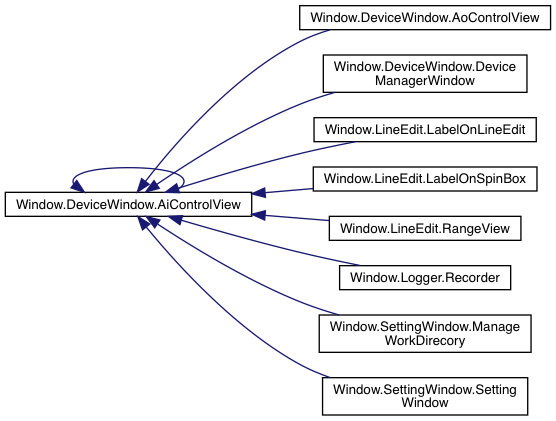
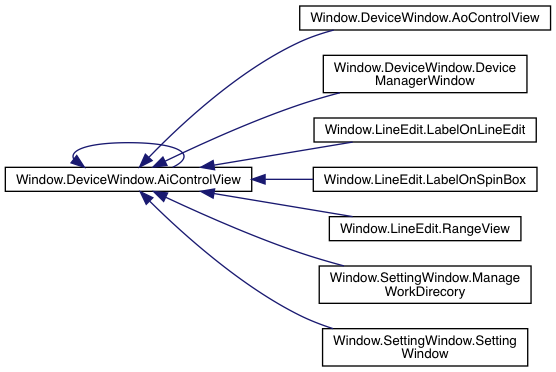
AD2を整理中

diff --git a/Doc/classes.html b/Doc/classes.html
@@ -62,27 +62,25 @@ $(function() {
 <div class="title">クラス索引</div>  </div>
 </div><!--header-->
 <div class="contents">
-<div class="qindex"><a class="qindex" href="#letter_a">a</a>&#160;|&#160;<a class="qindex" href="#letter_d">d</a>&#160;|&#160;<a class="qindex" href="#letter_e">e</a>&#160;|&#160;<a class="qindex" href="#letter_g">g</a>&#160;|&#160;<a class="qindex" href="#letter_l">l</a>&#160;|&#160;<a class="qindex" href="#letter_m">m</a>&#160;|&#160;<a class="qindex" href="#letter_r">r</a>&#160;|&#160;<a class="qindex" href="#letter_s">s</a></div>
+<div class="qindex"><a class="qindex" href="#letter_a">a</a>&#160;|&#160;<a class="qindex" href="#letter_d">d</a>&#160;|&#160;<a class="qindex" href="#letter_e">e</a>&#160;|&#160;<a class="qindex" href="#letter_l">l</a>&#160;|&#160;<a class="qindex" href="#letter_m">m</a>&#160;|&#160;<a class="qindex" href="#letter_r">r</a>&#160;|&#160;<a class="qindex" href="#letter_s">s</a></div>
 <table class="classindex">
 <tr><td rowspan="2" valign="bottom"><a name="letter_a"></a><table border="0" cellspacing="0" cellpadding="0"><tr><td><div class="ah">&#160;&#160;a&#160;&#160;</div></td></tr></table>
-</td><td rowspan="2" valign="bottom"><a name="letter_e"></a><table border="0" cellspacing="0" cellpadding="0"><tr><td><div class="ah">&#160;&#160;e&#160;&#160;</div></td></tr></table>
+</td><td rowspan="2" valign="bottom"><a name="letter_d"></a><table border="0" cellspacing="0" cellpadding="0"><tr><td><div class="ah">&#160;&#160;d&#160;&#160;</div></td></tr></table>
 </td><td rowspan="2" valign="bottom"><a name="letter_l"></a><table border="0" cellspacing="0" cellpadding="0"><tr><td><div class="ah">&#160;&#160;l&#160;&#160;</div></td></tr></table>
 </td><td rowspan="2" valign="bottom"><a name="letter_r"></a><table border="0" cellspacing="0" cellpadding="0"><tr><td><div class="ah">&#160;&#160;r&#160;&#160;</div></td></tr></table>
 </td><td></td></tr>
 <tr><td></td></tr>
-<tr><td valign="top"><a class="el" href="class_window_1_1_device_window_1_1_ai_control_view.html">AiControlView</a> (Window.DeviceWindow)&#160;&#160;&#160;</td><td valign="top"><a class="el" href="class_devices_1_1_waveforms_1_1_analog_discovery_1_1_echannel.html">Echannel</a> (<a class="el" href="namespace_devices_1_1_waveforms_1_1_analog_discovery.html">Devices.Waveforms.AnalogDiscovery</a>)&#160;&#160;&#160;</td><td valign="top"><a class="el" href="class_window_1_1_line_edit_1_1_label_on_line_edit.html">LabelOnLineEdit</a> (Window.LineEdit)&#160;&#160;&#160;</td><td valign="top"><a class="el" href="class_window_1_1_line_edit_1_1_range_view.html">RangeView</a> (Window.LineEdit)&#160;&#160;&#160;</td><td></td></tr>
-<tr><td valign="top"><a class="el" href="class_devices_1_1_waveforms_1_1_analog_discovery_1_1_analog_discovery2.html">AnalogDiscovery2</a> (<a class="el" href="namespace_devices_1_1_waveforms_1_1_analog_discovery.html">Devices.Waveforms.AnalogDiscovery</a>)&#160;&#160;&#160;</td><td rowspan="2" valign="bottom"><a name="letter_g"></a><table border="0" cellspacing="0" cellpadding="0"><tr><td><div class="ah">&#160;&#160;g&#160;&#160;</div></td></tr></table>
-</td><td valign="top"><a class="el" href="class_window_1_1_line_edit_1_1_label_on_spin_box.html">LabelOnSpinBox</a> (Window.LineEdit)&#160;&#160;&#160;</td><td valign="top"><a class="el" href="class_window_1_1_logger_1_1_recorder.html">Recorder</a> (Window.Logger)&#160;&#160;&#160;</td><td></td></tr>
-<tr><td valign="top"><a class="el" href="class_window_1_1_device_window_1_1_ao_control_view.html">AoControlView</a> (Window.DeviceWindow)&#160;&#160;&#160;</td><td rowspan="2" valign="bottom"><a name="letter_m"></a><table border="0" cellspacing="0" cellpadding="0"><tr><td><div class="ah">&#160;&#160;m&#160;&#160;</div></td></tr></table>
-</td><td rowspan="2" valign="bottom"><a name="letter_s"></a><table border="0" cellspacing="0" cellpadding="0"><tr><td><div class="ah">&#160;&#160;s&#160;&#160;</div></td></tr></table>
+<tr><td valign="top"><a class="el" href="class_window_1_1_device_window_1_1_ai_control_view.html">AiControlView</a> (Window.DeviceWindow)&#160;&#160;&#160;</td><td valign="top"><a class="el" href="class_window_1_1_device_window_1_1_device_manager_window.html">DeviceManagerWindow</a> (Window.DeviceWindow)&#160;&#160;&#160;</td><td valign="top"><a class="el" href="class_window_1_1_line_edit_1_1_label_on_line_edit.html">LabelOnLineEdit</a> (Window.LineEdit)&#160;&#160;&#160;</td><td valign="top"><a class="el" href="class_window_1_1_line_edit_1_1_range_view.html">RangeView</a> (Window.LineEdit)&#160;&#160;&#160;</td><td></td></tr>
+<tr><td valign="top"><a class="el" href="class_devices_1_1_waveforms_1_1_analog_discovery_1_1_analog_discovery2.html">AnalogDiscovery2</a> (<a class="el" href="namespace_devices_1_1_waveforms_1_1_analog_discovery.html">Devices.Waveforms.AnalogDiscovery</a>)&#160;&#160;&#160;</td><td rowspan="2" valign="bottom"><a name="letter_e"></a><table border="0" cellspacing="0" cellpadding="0"><tr><td><div class="ah">&#160;&#160;e&#160;&#160;</div></td></tr></table>
+</td><td valign="top"><a class="el" href="class_window_1_1_line_edit_1_1_label_on_spin_box.html">LabelOnSpinBox</a> (Window.LineEdit)&#160;&#160;&#160;</td><td rowspan="2" valign="bottom"><a name="letter_s"></a><table border="0" cellspacing="0" cellpadding="0"><tr><td><div class="ah">&#160;&#160;s&#160;&#160;</div></td></tr></table>
 </td><td></td></tr>
-<tr><td rowspan="2" valign="bottom"><a name="letter_d"></a><table border="0" cellspacing="0" cellpadding="0"><tr><td><div class="ah">&#160;&#160;d&#160;&#160;</div></td></tr></table>
-</td><td valign="top"><a class="el" href="class_window_1_1_show_graph_1_1_graph.html">Graph</a> (Window.ShowGraph)&#160;&#160;&#160;</td><td></td></tr>
-<tr><td></td><td valign="top"><a class="el" href="class_window_1_1_setting_window_1_1_manage_work_direcory.html">ManageWorkDirecory</a> (Window.SettingWindow)&#160;&#160;&#160;</td><td valign="top"><a class="el" href="class_window_1_1_setting_window_1_1_setting_window.html">SettingWindow</a> (Window.SettingWindow)&#160;&#160;&#160;</td><td></td></tr>
-<tr><td valign="top"><a class="el" href="class_window_1_1_device_window_1_1_device_manager_window.html">DeviceManagerWindow</a> (Window.DeviceWindow)&#160;&#160;&#160;</td><td></td><td></td><td></td><td></td></tr>
+<tr><td valign="top"><a class="el" href="class_window_1_1_device_window_1_1_ao_control_view.html">AoControlView</a> (Window.DeviceWindow)&#160;&#160;&#160;</td><td rowspan="2" valign="bottom"><a name="letter_m"></a><table border="0" cellspacing="0" cellpadding="0"><tr><td><div class="ah">&#160;&#160;m&#160;&#160;</div></td></tr></table>
+</td><td></td></tr>
+<tr><td></td><td valign="top"><a class="el" href="class_devices_1_1_waveforms_1_1_analog_discovery_1_1_echannel.html">Echannel</a> (<a class="el" href="namespace_devices_1_1_waveforms_1_1_analog_discovery.html">Devices.Waveforms.AnalogDiscovery</a>)&#160;&#160;&#160;</td><td valign="top"><a class="el" href="class_window_1_1_setting_window_1_1_setting_window.html">SettingWindow</a> (Window.SettingWindow)&#160;&#160;&#160;</td><td></td></tr>
+<tr><td></td><td></td><td valign="top"><a class="el" href="class_window_1_1_setting_window_1_1_manage_work_direcory.html">ManageWorkDirecory</a> (Window.SettingWindow)&#160;&#160;&#160;</td><td></td><td></td></tr>
 <tr><td></td><td></td><td></td><td></td><td></td></tr>
 </table>
-<div class="qindex"><a class="qindex" href="#letter_a">a</a>&#160;|&#160;<a class="qindex" href="#letter_d">d</a>&#160;|&#160;<a class="qindex" href="#letter_e">e</a>&#160;|&#160;<a class="qindex" href="#letter_g">g</a>&#160;|&#160;<a class="qindex" href="#letter_l">l</a>&#160;|&#160;<a class="qindex" href="#letter_m">m</a>&#160;|&#160;<a class="qindex" href="#letter_r">r</a>&#160;|&#160;<a class="qindex" href="#letter_s">s</a></div>
+<div class="qindex"><a class="qindex" href="#letter_a">a</a>&#160;|&#160;<a class="qindex" href="#letter_d">d</a>&#160;|&#160;<a class="qindex" href="#letter_e">e</a>&#160;|&#160;<a class="qindex" href="#letter_l">l</a>&#160;|&#160;<a class="qindex" href="#letter_m">m</a>&#160;|&#160;<a class="qindex" href="#letter_r">r</a>&#160;|&#160;<a class="qindex" href="#letter_s">s</a></div>
 </div><!-- contents -->
 <!-- start footer part -->
 <hr class="footer"/><address class="footer"><small>

diff --git a/Doc/hierarchy.html b/Doc/hierarchy.html
@@ -67,19 +67,17 @@ $(function() {
 クラス階層一覧です。大雑把に文字符号順で並べられています。</div><div class="directory">
 <div class="levels">[表示階層 <span onclick="javascript:toggleLevel(1);">1</span><span onclick="javascript:toggleLevel(2);">2</span>]</div><table class="directory">
 <tr id="row_0_" class="even"><td class="entry"><span style="width:16px;display:inline-block;">&#160;</span><span class="icona"><span class="icon">C</span></span><a class="el" href="class_devices_1_1_waveforms_1_1_analog_discovery_1_1_analog_discovery2.html" target="_self">Devices.Waveforms.AnalogDiscovery.AnalogDiscovery2</a></td><td class="desc"></td></tr>
-<tr id="row_1_"><td class="entry"><span style="width:16px;display:inline-block;">&#160;</span><span class="icona"><span class="icon">C</span></span><a class="el" href="class_window_1_1_show_graph_1_1_graph.html" target="_self">Window.ShowGraph.Graph</a></td><td class="desc"></td></tr>
-<tr id="row_2_" class="even"><td class="entry"><span style="width:0px;display:inline-block;">&#160;</span><span id="arr_2_" class="arrow" onclick="toggleFolder('2_')">&#9660;</span><span class="icona"><span class="icon">C</span></span><b>QWidget</b></td><td class="desc"></td></tr>
-<tr id="row_2_0_"><td class="entry"><span style="width:32px;display:inline-block;">&#160;</span><span class="icona"><span class="icon">C</span></span><a class="el" href="class_window_1_1_device_window_1_1_ai_control_view.html" target="_self">Window.DeviceWindow.AiControlView</a></td><td class="desc"></td></tr>
-<tr id="row_2_1_" class="even"><td class="entry"><span style="width:32px;display:inline-block;">&#160;</span><span class="icona"><span class="icon">C</span></span><a class="el" href="class_window_1_1_device_window_1_1_ao_control_view.html" target="_self">Window.DeviceWindow.AoControlView</a></td><td class="desc"></td></tr>
-<tr id="row_2_2_"><td class="entry"><span style="width:32px;display:inline-block;">&#160;</span><span class="icona"><span class="icon">C</span></span><a class="el" href="class_window_1_1_device_window_1_1_device_manager_window.html" target="_self">Window.DeviceWindow.DeviceManagerWindow</a></td><td class="desc"></td></tr>
-<tr id="row_2_3_" class="even"><td class="entry"><span style="width:32px;display:inline-block;">&#160;</span><span class="icona"><span class="icon">C</span></span><a class="el" href="class_window_1_1_line_edit_1_1_label_on_line_edit.html" target="_self">Window.LineEdit.LabelOnLineEdit</a></td><td class="desc"></td></tr>
-<tr id="row_2_4_"><td class="entry"><span style="width:32px;display:inline-block;">&#160;</span><span class="icona"><span class="icon">C</span></span><a class="el" href="class_window_1_1_line_edit_1_1_label_on_spin_box.html" target="_self">Window.LineEdit.LabelOnSpinBox</a></td><td class="desc"></td></tr>
-<tr id="row_2_5_" class="even"><td class="entry"><span style="width:32px;display:inline-block;">&#160;</span><span class="icona"><span class="icon">C</span></span><a class="el" href="class_window_1_1_line_edit_1_1_range_view.html" target="_self">Window.LineEdit.RangeView</a></td><td class="desc"></td></tr>
-<tr id="row_2_6_"><td class="entry"><span style="width:32px;display:inline-block;">&#160;</span><span class="icona"><span class="icon">C</span></span><a class="el" href="class_window_1_1_logger_1_1_recorder.html" target="_self">Window.Logger.Recorder</a></td><td class="desc"></td></tr>
-<tr id="row_2_7_" class="even"><td class="entry"><span style="width:32px;display:inline-block;">&#160;</span><span class="icona"><span class="icon">C</span></span><a class="el" href="class_window_1_1_setting_window_1_1_manage_work_direcory.html" target="_self">Window.SettingWindow.ManageWorkDirecory</a></td><td class="desc"></td></tr>
-<tr id="row_2_8_"><td class="entry"><span style="width:32px;display:inline-block;">&#160;</span><span class="icona"><span class="icon">C</span></span><a class="el" href="class_window_1_1_setting_window_1_1_setting_window.html" target="_self">Window.SettingWindow.SettingWindow</a></td><td class="desc"></td></tr>
-<tr id="row_3_" class="even"><td class="entry"><span style="width:0px;display:inline-block;">&#160;</span><span id="arr_3_" class="arrow" onclick="toggleFolder('3_')">&#9660;</span><span class="icona"><span class="icon">C</span></span><b>Enum</b></td><td class="desc"></td></tr>
-<tr id="row_3_0_"><td class="entry"><span style="width:32px;display:inline-block;">&#160;</span><span class="icona"><span class="icon">C</span></span><a class="el" href="class_devices_1_1_waveforms_1_1_analog_discovery_1_1_echannel.html" target="_self">Devices.Waveforms.AnalogDiscovery.Echannel</a></td><td class="desc"></td></tr>
+<tr id="row_1_"><td class="entry"><span style="width:0px;display:inline-block;">&#160;</span><span id="arr_1_" class="arrow" onclick="toggleFolder('1_')">&#9660;</span><span class="icona"><span class="icon">C</span></span><b>QWidget</b></td><td class="desc"></td></tr>
+<tr id="row_1_0_" class="even"><td class="entry"><span style="width:32px;display:inline-block;">&#160;</span><span class="icona"><span class="icon">C</span></span><a class="el" href="class_window_1_1_device_window_1_1_ai_control_view.html" target="_self">Window.DeviceWindow.AiControlView</a></td><td class="desc"></td></tr>
+<tr id="row_1_1_"><td class="entry"><span style="width:32px;display:inline-block;">&#160;</span><span class="icona"><span class="icon">C</span></span><a class="el" href="class_window_1_1_device_window_1_1_ao_control_view.html" target="_self">Window.DeviceWindow.AoControlView</a></td><td class="desc"></td></tr>
+<tr id="row_1_2_" class="even"><td class="entry"><span style="width:32px;display:inline-block;">&#160;</span><span class="icona"><span class="icon">C</span></span><a class="el" href="class_window_1_1_device_window_1_1_device_manager_window.html" target="_self">Window.DeviceWindow.DeviceManagerWindow</a></td><td class="desc"></td></tr>
+<tr id="row_1_3_"><td class="entry"><span style="width:32px;display:inline-block;">&#160;</span><span class="icona"><span class="icon">C</span></span><a class="el" href="class_window_1_1_line_edit_1_1_label_on_line_edit.html" target="_self">Window.LineEdit.LabelOnLineEdit</a></td><td class="desc"></td></tr>
+<tr id="row_1_4_" class="even"><td class="entry"><span style="width:32px;display:inline-block;">&#160;</span><span class="icona"><span class="icon">C</span></span><a class="el" href="class_window_1_1_line_edit_1_1_label_on_spin_box.html" target="_self">Window.LineEdit.LabelOnSpinBox</a></td><td class="desc"></td></tr>
+<tr id="row_1_5_"><td class="entry"><span style="width:32px;display:inline-block;">&#160;</span><span class="icona"><span class="icon">C</span></span><a class="el" href="class_window_1_1_line_edit_1_1_range_view.html" target="_self">Window.LineEdit.RangeView</a></td><td class="desc"></td></tr>
+<tr id="row_1_6_" class="even"><td class="entry"><span style="width:32px;display:inline-block;">&#160;</span><span class="icona"><span class="icon">C</span></span><a class="el" href="class_window_1_1_setting_window_1_1_manage_work_direcory.html" target="_self">Window.SettingWindow.ManageWorkDirecory</a></td><td class="desc"></td></tr>
+<tr id="row_1_7_"><td class="entry"><span style="width:32px;display:inline-block;">&#160;</span><span class="icona"><span class="icon">C</span></span><a class="el" href="class_window_1_1_setting_window_1_1_setting_window.html" target="_self">Window.SettingWindow.SettingWindow</a></td><td class="desc"></td></tr>
+<tr id="row_2_" class="even"><td class="entry"><span style="width:0px;display:inline-block;">&#160;</span><span id="arr_2_" class="arrow" onclick="toggleFolder('2_')">&#9660;</span><span class="icona"><span class="icon">C</span></span><b>Enum</b></td><td class="desc"></td></tr>
+<tr id="row_2_0_"><td class="entry"><span style="width:32px;display:inline-block;">&#160;</span><span class="icona"><span class="icon">C</span></span><a class="el" href="class_devices_1_1_waveforms_1_1_analog_discovery_1_1_echannel.html" target="_self">Devices.Waveforms.AnalogDiscovery.Echannel</a></td><td class="desc"></td></tr>
 </table>
 </div><!-- directory -->
 </div><!-- contents -->

diff --git a/Doc/annotated.html b/Doc/annotated.html
@@ -78,13 +78,9 @@ $(function() {
 <tr id="row_1_1_0_"><td class="entry"><span style="width:48px;display:inline-block;">&#160;</span><span class="icona"><span class="icon">C</span></span><a class="el" href="class_window_1_1_line_edit_1_1_label_on_line_edit.html" target="_self">LabelOnLineEdit</a></td><td class="desc"></td></tr>
 <tr id="row_1_1_1_" class="even"><td class="entry"><span style="width:48px;display:inline-block;">&#160;</span><span class="icona"><span class="icon">C</span></span><a class="el" href="class_window_1_1_line_edit_1_1_label_on_spin_box.html" target="_self">LabelOnSpinBox</a></td><td class="desc"></td></tr>
 <tr id="row_1_1_2_"><td class="entry"><span style="width:48px;display:inline-block;">&#160;</span><span class="icona"><span class="icon">C</span></span><a class="el" href="class_window_1_1_line_edit_1_1_range_view.html" target="_self">RangeView</a></td><td class="desc"></td></tr>
-<tr id="row_1_2_" class="even"><td class="entry"><span style="width:16px;display:inline-block;">&#160;</span><span id="arr_1_2_" class="arrow" onclick="toggleFolder('1_2_')">&#9660;</span><span class="icona"><span class="icon">N</span></span><b>Logger</b></td><td class="desc"></td></tr>
-<tr id="row_1_2_0_"><td class="entry"><span style="width:48px;display:inline-block;">&#160;</span><span class="icona"><span class="icon">C</span></span><a class="el" href="class_window_1_1_logger_1_1_recorder.html" target="_self">Recorder</a></td><td class="desc"></td></tr>
-<tr id="row_1_3_" class="even"><td class="entry"><span style="width:16px;display:inline-block;">&#160;</span><span id="arr_1_3_" class="arrow" onclick="toggleFolder('1_3_')">&#9660;</span><span class="icona"><span class="icon">N</span></span><b>SettingWindow</b></td><td class="desc"></td></tr>
-<tr id="row_1_3_0_"><td class="entry"><span style="width:48px;display:inline-block;">&#160;</span><span class="icona"><span class="icon">C</span></span><a class="el" href="class_window_1_1_setting_window_1_1_manage_work_direcory.html" target="_self">ManageWorkDirecory</a></td><td class="desc"></td></tr>
-<tr id="row_1_3_1_" class="even"><td class="entry"><span style="width:48px;display:inline-block;">&#160;</span><span class="icona"><span class="icon">C</span></span><a class="el" href="class_window_1_1_setting_window_1_1_setting_window.html" target="_self">SettingWindow</a></td><td class="desc"></td></tr>
-<tr id="row_1_4_"><td class="entry"><span style="width:16px;display:inline-block;">&#160;</span><span id="arr_1_4_" class="arrow" onclick="toggleFolder('1_4_')">&#9660;</span><span class="icona"><span class="icon">N</span></span><b>ShowGraph</b></td><td class="desc"></td></tr>
-<tr id="row_1_4_0_" class="even"><td class="entry"><span style="width:48px;display:inline-block;">&#160;</span><span class="icona"><span class="icon">C</span></span><a class="el" href="class_window_1_1_show_graph_1_1_graph.html" target="_self">Graph</a></td><td class="desc"></td></tr>
+<tr id="row_1_2_" class="even"><td class="entry"><span style="width:16px;display:inline-block;">&#160;</span><span id="arr_1_2_" class="arrow" onclick="toggleFolder('1_2_')">&#9660;</span><span class="icona"><span class="icon">N</span></span><b>SettingWindow</b></td><td class="desc"></td></tr>
+<tr id="row_1_2_0_"><td class="entry"><span style="width:48px;display:inline-block;">&#160;</span><span class="icona"><span class="icon">C</span></span><a class="el" href="class_window_1_1_setting_window_1_1_manage_work_direcory.html" target="_self">ManageWorkDirecory</a></td><td class="desc"></td></tr>
+<tr id="row_1_2_1_" class="even"><td class="entry"><span style="width:48px;display:inline-block;">&#160;</span><span class="icona"><span class="icon">C</span></span><a class="el" href="class_window_1_1_setting_window_1_1_setting_window.html" target="_self">SettingWindow</a></td><td class="desc"></td></tr>
 </table>
 </div><!-- directory -->
 </div><!-- contents -->

diff --git a/Doc/namespace_devices_1_1_waveforms_1_1_analog_discovery.html b/Doc/namespace_devices_1_1_waveforms_1_1_analog_discovery.html
@@ -80,8 +80,7 @@ $(function() {
 </table><table class="memberdecls">
 <tr class="heading"><td colspan="2"><h2 class="groupheader"><a name="func-members"></a>
 関数</h2></td></tr>
-<tr class="memitem:a61a97b272b39fe88c3893d4d808bf54d"><td class="memItemLeft" align="right" valign="top"><a id="a61a97b272b39fe88c3893d4d808bf54d"></a>
-def&#160;</td><td class="memItemRight" valign="bottom"><b>get_connection_count_analog_discovery2</b> ()</td></tr>
+<tr class="memitem:a61a97b272b39fe88c3893d4d808bf54d"><td class="memItemLeft" align="right" valign="top">def&#160;</td><td class="memItemRight" valign="bottom"><a class="el" href="namespace_devices_1_1_waveforms_1_1_analog_discovery.html#a61a97b272b39fe88c3893d4d808bf54d">get_connection_count_analog_discovery2</a> ()</td></tr>
 <tr class="separator:a61a97b272b39fe88c3893d4d808bf54d"><td class="memSeparator" colspan="2">&#160;</td></tr>
 <tr class="memitem:af91078618241773d7ce2d4b7001e4be5"><td class="memItemLeft" align="right" valign="top"><a id="af91078618241773d7ce2d4b7001e4be5"></a>
 def&#160;</td><td class="memItemRight" valign="bottom"><b>get_serial_analog_discovery2</b></td></tr>
@@ -96,7 +95,7 @@ def&#160;</td><td class="memItemRight" valign="bottom"><b>get_index_analog_disco
 &#160;</td><td class="memItemRight" valign="bottom"><b>dwf</b> = cdll.dwf</td></tr>
 <tr class="separator:a5981030cf50d2f07103a9577a3c98a3c"><td class="memSeparator" colspan="2">&#160;</td></tr>
 <tr class="memitem:ab072a4780efd4fcdfa4f1da410d5373d"><td class="memItemLeft" align="right" valign="top"><a id="ab072a4780efd4fcdfa4f1da410d5373d"></a>
-def&#160;</td><td class="memItemRight" valign="bottom"><b>devices</b> = get_connection_count_analog_discovery2()</td></tr>
+def&#160;</td><td class="memItemRight" valign="bottom"><b>devices</b> = <a class="el" href="namespace_devices_1_1_waveforms_1_1_analog_discovery.html#a61a97b272b39fe88c3893d4d808bf54d">get_connection_count_analog_discovery2</a>()</td></tr>
 <tr class="separator:ab072a4780efd4fcdfa4f1da410d5373d"><td class="memSeparator" colspan="2">&#160;</td></tr>
 <tr class="memitem:ac8931f611cdfaedd8f4a62901015caec"><td class="memItemLeft" align="right" valign="top"><a id="ac8931f611cdfaedd8f4a62901015caec"></a>
 &#160;</td><td class="memItemRight" valign="bottom"><b>device</b> = <a class="el" href="class_devices_1_1_waveforms_1_1_analog_discovery_1_1_analog_discovery2.html">AnalogDiscovery2</a>()</td></tr>
@@ -133,7 +132,26 @@ def&#160;</td><td class="memItemRight" valign="bottom"><b>devices</b> = get_conn
 <div class="textblock"><pre class="fragment">@file AnalogDiscovery2
 @brief Digilent社のAD2を簡単に扱うためのラッパーファイルです．
 @author Nobuhiro Funato
-</pre> </div></div><!-- contents -->
+</pre> </div><h2 class="groupheader">関数詳解</h2>
+<a id="a61a97b272b39fe88c3893d4d808bf54d"></a>
+<h2 class="memtitle"><span class="permalink"><a href="#a61a97b272b39fe88c3893d4d808bf54d">&#9670;&nbsp;</a></span>get_connection_count_analog_discovery2()</h2>
+
+<div class="memitem">
+<div class="memproto">
+      <table class="memname">
+        <tr>
+          <td class="memname">def Devices.Waveforms.AnalogDiscovery.get_connection_count_analog_discovery2 </td>
+          <td>(</td>
+          <td class="paramname"></td><td>)</td>
+          <td></td>
+        </tr>
+      </table>
+</div><div class="memdoc">
+<pre class="fragment">@return: 現在，接続されているAD2の数を整数値で返す
+</pre> 
+</div>
+</div>
+</div><!-- contents -->
 <!-- start footer part -->
 <hr class="footer"/><address class="footer"><small>
 構築: &#160;<a href="http://www.doxygen.org/index.html">

diff --git a/Doc/namespacemembers.html b/Doc/namespacemembers.html
@@ -5,7 +5,7 @@
 <meta http-equiv="X-UA-Compatible" content="IE=9"/>
 <meta name="generator" content="Doxygen 1.8.13"/>
 <meta name="viewport" content="width=device-width, initial-scale=1"/>
-<title>Pybration: Window.SettingWindow.ManageWorkDirecory クラス</title>
+<title>Pybration: 名前空間メンバ</title>
 <link href="tabs.css" rel="stylesheet" type="text/css"/>
 <script type="text/javascript" src="jquery.js"></script>
 <script type="text/javascript" src="dynsections.js"></script>
@@ -42,6 +42,7 @@ $(function() {
 });
 </script>
 <div id="main-nav"></div>
+</div><!-- top -->
 <!-- window showing the filter options -->
 <div id="MSearchSelectWindow"
      onmouseover="return searchBox.OnSearchSelectShow()"
@@ -56,38 +57,11 @@ $(function() {
 </iframe>
 </div>
 
-<div id="nav-path" class="navpath">
-  <ul>
-<li class="navelem"><b>Window</b></li><li class="navelem"><b>SettingWindow</b></li><li class="navelem"><a class="el" href="class_window_1_1_setting_window_1_1_manage_work_direcory.html">ManageWorkDirecory</a></li>  </ul>
-</div>
-</div><!-- top -->
-<div class="header">
-  <div class="summary">
-<a href="#pub-methods">公開メンバ関数</a> &#124;
-<a href="class_window_1_1_setting_window_1_1_manage_work_direcory-members.html">全メンバ一覧</a>  </div>
-  <div class="headertitle">
-<div class="title">Window.SettingWindow.ManageWorkDirecory クラス</div>  </div>
-</div><!--header-->
 <div class="contents">
-<div class="dynheader">
-Window.SettingWindow.ManageWorkDirecory の継承関係図</div>
-<div class="dyncontent">
-<div class="center"><img src="class_window_1_1_setting_window_1_1_manage_work_direcory__inherit__graph.png" border="0" usemap="#_window_8_setting_window_8_manage_work_direcory_inherit__map" alt="Inheritance graph"/></div>
-<center><span class="legend">[<a href="graph_legend.html">凡例</a>]</span></center></div>
-<div class="dynheader">
-Window.SettingWindow.ManageWorkDirecory 連携図</div>
-<div class="dyncontent">
-<div class="center"><img src="class_window_1_1_setting_window_1_1_manage_work_direcory__coll__graph.png" border="0" usemap="#_window_8_setting_window_8_manage_work_direcory_coll__map" alt="Collaboration graph"/></div>
-<center><span class="legend">[<a href="graph_legend.html">凡例</a>]</span></center></div>
-<table class="memberdecls">
-<tr class="heading"><td colspan="2"><h2 class="groupheader"><a name="pub-methods"></a>
-公開メンバ関数</h2></td></tr>
-<tr class="memitem:a347c72753f2138f08b4980be1445cc7a"><td class="memItemLeft" align="right" valign="top"><a id="a347c72753f2138f08b4980be1445cc7a"></a>
-def&#160;</td><td class="memItemRight" valign="bottom"><b>__init__</b> (self)</td></tr>
-<tr class="separator:a347c72753f2138f08b4980be1445cc7a"><td class="memSeparator" colspan="2">&#160;</td></tr>
-</table>
-<hr/>このクラス詳解は次のファイルから抽出されました:<ul>
-<li>Window/SettingWindow.py</li>
+<div class="textblock">これは名前空間の一覧です。それぞれが属している名前空間へリンクしています。</div><ul>
+<li>get_connection_count_analog_discovery2()
+: <a class="el" href="namespace_devices_1_1_waveforms_1_1_analog_discovery.html#a61a97b272b39fe88c3893d4d808bf54d">Devices.Waveforms.AnalogDiscovery</a>
+</li>
 </ul>
 </div><!-- contents -->
 <!-- start footer part -->

diff --git a/Doc/namespacemembers_func.html b/Doc/namespacemembers_func.html
@@ -5,7 +5,7 @@
 <meta http-equiv="X-UA-Compatible" content="IE=9"/>
 <meta name="generator" content="Doxygen 1.8.13"/>
 <meta name="viewport" content="width=device-width, initial-scale=1"/>
-<title>Pybration: Window.SettingWindow.ManageWorkDirecory クラス</title>
+<title>Pybration: 名前空間メンバ</title>
 <link href="tabs.css" rel="stylesheet" type="text/css"/>
 <script type="text/javascript" src="jquery.js"></script>
 <script type="text/javascript" src="dynsections.js"></script>
@@ -42,6 +42,7 @@ $(function() {
 });
 </script>
 <div id="main-nav"></div>
+</div><!-- top -->
 <!-- window showing the filter options -->
 <div id="MSearchSelectWindow"
      onmouseover="return searchBox.OnSearchSelectShow()"
@@ -56,38 +57,11 @@ $(function() {
 </iframe>
 </div>
 
-<div id="nav-path" class="navpath">
-  <ul>
-<li class="navelem"><b>Window</b></li><li class="navelem"><b>SettingWindow</b></li><li class="navelem"><a class="el" href="class_window_1_1_setting_window_1_1_manage_work_direcory.html">ManageWorkDirecory</a></li>  </ul>
-</div>
-</div><!-- top -->
-<div class="header">
-  <div class="summary">
-<a href="#pub-methods">公開メンバ関数</a> &#124;
-<a href="class_window_1_1_setting_window_1_1_manage_work_direcory-members.html">全メンバ一覧</a>  </div>
-  <div class="headertitle">
-<div class="title">Window.SettingWindow.ManageWorkDirecory クラス</div>  </div>
-</div><!--header-->
 <div class="contents">
-<div class="dynheader">
-Window.SettingWindow.ManageWorkDirecory の継承関係図</div>
-<div class="dyncontent">
-<div class="center"><img src="class_window_1_1_setting_window_1_1_manage_work_direcory__inherit__graph.png" border="0" usemap="#_window_8_setting_window_8_manage_work_direcory_inherit__map" alt="Inheritance graph"/></div>
-<center><span class="legend">[<a href="graph_legend.html">凡例</a>]</span></center></div>
-<div class="dynheader">
-Window.SettingWindow.ManageWorkDirecory 連携図</div>
-<div class="dyncontent">
-<div class="center"><img src="class_window_1_1_setting_window_1_1_manage_work_direcory__coll__graph.png" border="0" usemap="#_window_8_setting_window_8_manage_work_direcory_coll__map" alt="Collaboration graph"/></div>
-<center><span class="legend">[<a href="graph_legend.html">凡例</a>]</span></center></div>
-<table class="memberdecls">
-<tr class="heading"><td colspan="2"><h2 class="groupheader"><a name="pub-methods"></a>
-公開メンバ関数</h2></td></tr>
-<tr class="memitem:a347c72753f2138f08b4980be1445cc7a"><td class="memItemLeft" align="right" valign="top"><a id="a347c72753f2138f08b4980be1445cc7a"></a>
-def&#160;</td><td class="memItemRight" valign="bottom"><b>__init__</b> (self)</td></tr>
-<tr class="separator:a347c72753f2138f08b4980be1445cc7a"><td class="memSeparator" colspan="2">&#160;</td></tr>
-</table>
-<hr/>このクラス詳解は次のファイルから抽出されました:<ul>
-<li>Window/SettingWindow.py</li>
+&#160;<ul>
+<li>get_connection_count_analog_discovery2()
+: <a class="el" href="namespace_devices_1_1_waveforms_1_1_analog_discovery.html#a61a97b272b39fe88c3893d4d808bf54d">Devices.Waveforms.AnalogDiscovery</a>
+</li>
 </ul>
 </div><!-- contents -->
 <!-- start footer part -->

diff --git a/Doc/inherits.html b/Doc/inherits.html
@@ -77,20 +77,14 @@ $(function() {
 </td></tr>
 <tr><td><img src="inherit_graph_2.png" border="0" alt="" usemap="#_window_8_device_window_8_ai_control_view"/>
 <map name="_window_8_device_window_8_ai_control_view" id="_window_8_device_window_8_ai_control_view">
-<area shape="rect" id="node1" href="class_window_1_1_device_window_1_1_ai_control_view.html" title="Window.DeviceWindow.AiControlView" alt="" coords="5,192,252,217"/>
+<area shape="rect" id="node1" href="class_window_1_1_device_window_1_1_ai_control_view.html" title="Window.DeviceWindow.AiControlView" alt="" coords="5,167,252,192"/>
 <area shape="rect" id="node2" href="class_window_1_1_device_window_1_1_ao_control_view.html" title="Window.DeviceWindow.AoControlView" alt="" coords="300,5,551,31"/>
 <area shape="rect" id="node3" href="class_window_1_1_device_window_1_1_device_manager_window.html" title="Window.DeviceWindow.Device\lManagerWindow" alt="" coords="323,55,527,93"/>
 <area shape="rect" id="node4" href="class_window_1_1_line_edit_1_1_label_on_line_edit.html" title="Window.LineEdit.LabelOnLineEdit" alt="" coords="314,117,536,143"/>
 <area shape="rect" id="node5" href="class_window_1_1_line_edit_1_1_label_on_spin_box.html" title="Window.LineEdit.LabelOnSpinBox" alt="" coords="313,167,537,192"/>
 <area shape="rect" id="node6" href="class_window_1_1_line_edit_1_1_range_view.html" title="Window.LineEdit.RangeView" alt="" coords="329,216,521,241"/>
-<area shape="rect" id="node7" href="class_window_1_1_logger_1_1_recorder.html" title="Window.Logger.Recorder" alt="" coords="340,265,511,291"/>
-<area shape="rect" id="node8" href="class_window_1_1_setting_window_1_1_manage_work_direcory.html" title="Window.SettingWindow.Manage\lWorkDirecory" alt="" coords="319,315,531,353"/>
-<area shape="rect" id="node9" href="class_window_1_1_setting_window_1_1_setting_window.html" title="Window.SettingWindow.Setting\lWindow" alt="" coords="323,377,528,416"/>
-</map>
-</td></tr>
-<tr><td><img src="inherit_graph_3.png" border="0" alt="" usemap="#_window_8_show_graph_8_graph"/>
-<map name="_window_8_show_graph_8_graph" id="_window_8_show_graph_8_graph">
-<area shape="rect" id="node1" href="class_window_1_1_show_graph_1_1_graph.html" title="Window.ShowGraph.Graph" alt="" coords="5,5,188,31"/>
+<area shape="rect" id="node7" href="class_window_1_1_setting_window_1_1_manage_work_direcory.html" title="Window.SettingWindow.Manage\lWorkDirecory" alt="" coords="319,265,531,304"/>
+<area shape="rect" id="node8" href="class_window_1_1_setting_window_1_1_setting_window.html" title="Window.SettingWindow.Setting\lWindow" alt="" coords="323,328,528,367"/>
 </map>
 </td></tr>
 </table>

diff --git a/Doc/md__doc_develop.html b/Doc/md__doc_develop.html
@@ -5,7 +5,7 @@
 <meta http-equiv="X-UA-Compatible" content="IE=9"/>
 <meta name="generator" content="Doxygen 1.8.13"/>
 <meta name="viewport" content="width=device-width, initial-scale=1"/>
-<title>Pybration: aaaaaa</title>
+<title>Pybration: 開発にあたっての注意点</title>
 <link href="tabs.css" rel="stylesheet" type="text/css"/>
 <script type="text/javascript" src="jquery.js"></script>
 <script type="text/javascript" src="dynsections.js"></script>
@@ -59,10 +59,31 @@ $(function() {
 </div><!-- top -->
 <div class="header">
   <div class="headertitle">
-<div class="title">aaaaaa </div>  </div>
+<div class="title">開発にあたっての注意点 </div>  </div>
 </div><!--header-->
 <div class="contents">
-<div class="textblock"><p>dsfjhsadjklfhksadhfklasdf </p>
+<div class="textblock"><h2>pybration上のソフトウェア開発</h2>
+<h3>GUI関連に関して</h3>
+<p>PyQtを用いて開発を行なっています． PyQtに関しては<a href="https://wiki.python.org/moin/PyQt">こちら</a>を参照してください．</p>
+<h3>ディレクトリ構成</h3>
+<ul>
+<li>**/pluginディレクトリ** pybration上でソフトウェア開発を行う場合, pluginディレクトリ内に 各自製作するファイルを入れること</li>
+<li>**/Doc** ドキュメント類が入ってます．/Doc/index.htmlをブラウザで開いてください．</li>
+</ul>
+<h2>コーディング規約</h2>
+<ol type="1">
+<li><b>pep8</b> pep8に準拠したコーディングを行いましょう <a href="http://pep8-ja.readthedocs.io/ja/latest/">pep8</a> についてはこちら</li>
+</ol>
+<h3>命名規則</h3>
+<ol type="1">
+<li><b>クラス名　構造体名 -&gt; パスカルケース</b> 最初の文字を大文字にして単語どうしをつなげる書き方． <em>TestExampleClass</em> のように単語の１文字目を大きくし， つなげて書きましょう</li>
+</ol>
+<ol type="1">
+<li><b>メソッド名　メンバ変数 -&gt; スネークケース</b> 「_」で単語をつなぐ書き方 _test_example_method_　のような書き方にしましょう</li>
+</ol>
+<ol type="1">
+<li>**ファイル名（ソースコード）-&gt; メインクラスと同じもの パスカル記法と同様になる筈です． </li>
+</ol>
 </div></div><!-- contents -->
 <!-- start footer part -->
 <hr class="footer"/><address class="footer"><small>

diff --git a/Doc/class_devices_1_1_waveforms_1_1_analog_discovery_1_1_echannel.html b/Doc/class_devices_1_1_waveforms_1_1_analog_discovery_1_1_echannel.html
@@ -73,15 +73,11 @@ $(function() {
 Devices.Waveforms.AnalogDiscovery.Echannel の継承関係図</div>
 <div class="dyncontent">
 <div class="center"><img src="class_devices_1_1_waveforms_1_1_analog_discovery_1_1_echannel__inherit__graph.png" border="0" usemap="#_devices_8_waveforms_8_analog_discovery_8_echannel_inherit__map" alt="Inheritance graph"/></div>
-<map name="_devices_8_waveforms_8_analog_discovery_8_echannel_inherit__map" id="_devices_8_waveforms_8_analog_discovery_8_echannel_inherit__map">
-</map>
 <center><span class="legend">[<a href="graph_legend.html">凡例</a>]</span></center></div>
 <div class="dynheader">
 Devices.Waveforms.AnalogDiscovery.Echannel 連携図</div>
 <div class="dyncontent">
 <div class="center"><img src="class_devices_1_1_waveforms_1_1_analog_discovery_1_1_echannel__coll__graph.png" border="0" usemap="#_devices_8_waveforms_8_analog_discovery_8_echannel_coll__map" alt="Collaboration graph"/></div>
-<map name="_devices_8_waveforms_8_analog_discovery_8_echannel_coll__map" id="_devices_8_waveforms_8_analog_discovery_8_echannel_coll__map">
-</map>
 <center><span class="legend">[<a href="graph_legend.html">凡例</a>]</span></center></div>
 <table class="memberdecls">
 <tr class="heading"><td colspan="2"><h2 class="groupheader"><a name="pub-static-attribs"></a>

diff --git a/Doc/class_window_1_1_device_window_1_1_device_manager_window.html b/Doc/class_window_1_1_device_window_1_1_device_manager_window.html
@@ -74,15 +74,11 @@ $(function() {
 Window.DeviceWindow.DeviceManagerWindow の継承関係図</div>
 <div class="dyncontent">
 <div class="center"><img src="class_window_1_1_device_window_1_1_device_manager_window__inherit__graph.png" border="0" usemap="#_window_8_device_window_8_device_manager_window_inherit__map" alt="Inheritance graph"/></div>
-<map name="_window_8_device_window_8_device_manager_window_inherit__map" id="_window_8_device_window_8_device_manager_window_inherit__map">
-</map>
 <center><span class="legend">[<a href="graph_legend.html">凡例</a>]</span></center></div>
 <div class="dynheader">
 Window.DeviceWindow.DeviceManagerWindow 連携図</div>
 <div class="dyncontent">
 <div class="center"><img src="class_window_1_1_device_window_1_1_device_manager_window__coll__graph.png" border="0" usemap="#_window_8_device_window_8_device_manager_window_coll__map" alt="Collaboration graph"/></div>
-<map name="_window_8_device_window_8_device_manager_window_coll__map" id="_window_8_device_window_8_device_manager_window_coll__map">
-</map>
 <center><span class="legend">[<a href="graph_legend.html">凡例</a>]</span></center></div>
 <table class="memberdecls">
 <tr class="heading"><td colspan="2"><h2 class="groupheader"><a name="pub-methods"></a>

diff --git a/Doc/class_window_1_1_setting_window_1_1_setting_window.html b/Doc/class_window_1_1_setting_window_1_1_setting_window.html
@@ -74,15 +74,11 @@ $(function() {
 Window.SettingWindow.SettingWindow の継承関係図</div>
 <div class="dyncontent">
 <div class="center"><img src="class_window_1_1_setting_window_1_1_setting_window__inherit__graph.png" border="0" usemap="#_window_8_setting_window_8_setting_window_inherit__map" alt="Inheritance graph"/></div>
-<map name="_window_8_setting_window_8_setting_window_inherit__map" id="_window_8_setting_window_8_setting_window_inherit__map">
-</map>
 <center><span class="legend">[<a href="graph_legend.html">凡例</a>]</span></center></div>
 <div class="dynheader">
 Window.SettingWindow.SettingWindow 連携図</div>
 <div class="dyncontent">
 <div class="center"><img src="class_window_1_1_setting_window_1_1_setting_window__coll__graph.png" border="0" usemap="#_window_8_setting_window_8_setting_window_coll__map" alt="Collaboration graph"/></div>
-<map name="_window_8_setting_window_8_setting_window_coll__map" id="_window_8_setting_window_8_setting_window_coll__map">
-</map>
 <center><span class="legend">[<a href="graph_legend.html">凡例</a>]</span></center></div>
 <table class="memberdecls">
 <tr class="heading"><td colspan="2"><h2 class="groupheader"><a name="pub-methods"></a>

diff --git a/Doc/class_window_1_1_device_window_1_1_ai_control_view.html b/Doc/class_window_1_1_device_window_1_1_ai_control_view.html
@@ -74,15 +74,11 @@ $(function() {
 Window.DeviceWindow.AiControlView の継承関係図</div>
 <div class="dyncontent">
 <div class="center"><img src="class_window_1_1_device_window_1_1_ai_control_view__inherit__graph.png" border="0" usemap="#_window_8_device_window_8_ai_control_view_inherit__map" alt="Inheritance graph"/></div>
-<map name="_window_8_device_window_8_ai_control_view_inherit__map" id="_window_8_device_window_8_ai_control_view_inherit__map">
-</map>
 <center><span class="legend">[<a href="graph_legend.html">凡例</a>]</span></center></div>
 <div class="dynheader">
 Window.DeviceWindow.AiControlView 連携図</div>
 <div class="dyncontent">
 <div class="center"><img src="class_window_1_1_device_window_1_1_ai_control_view__coll__graph.png" border="0" usemap="#_window_8_device_window_8_ai_control_view_coll__map" alt="Collaboration graph"/></div>
-<map name="_window_8_device_window_8_ai_control_view_coll__map" id="_window_8_device_window_8_ai_control_view_coll__map">
-</map>
 <center><span class="legend">[<a href="graph_legend.html">凡例</a>]</span></center></div>
 <table class="memberdecls">
 <tr class="heading"><td colspan="2"><h2 class="groupheader"><a name="pub-methods"></a>
